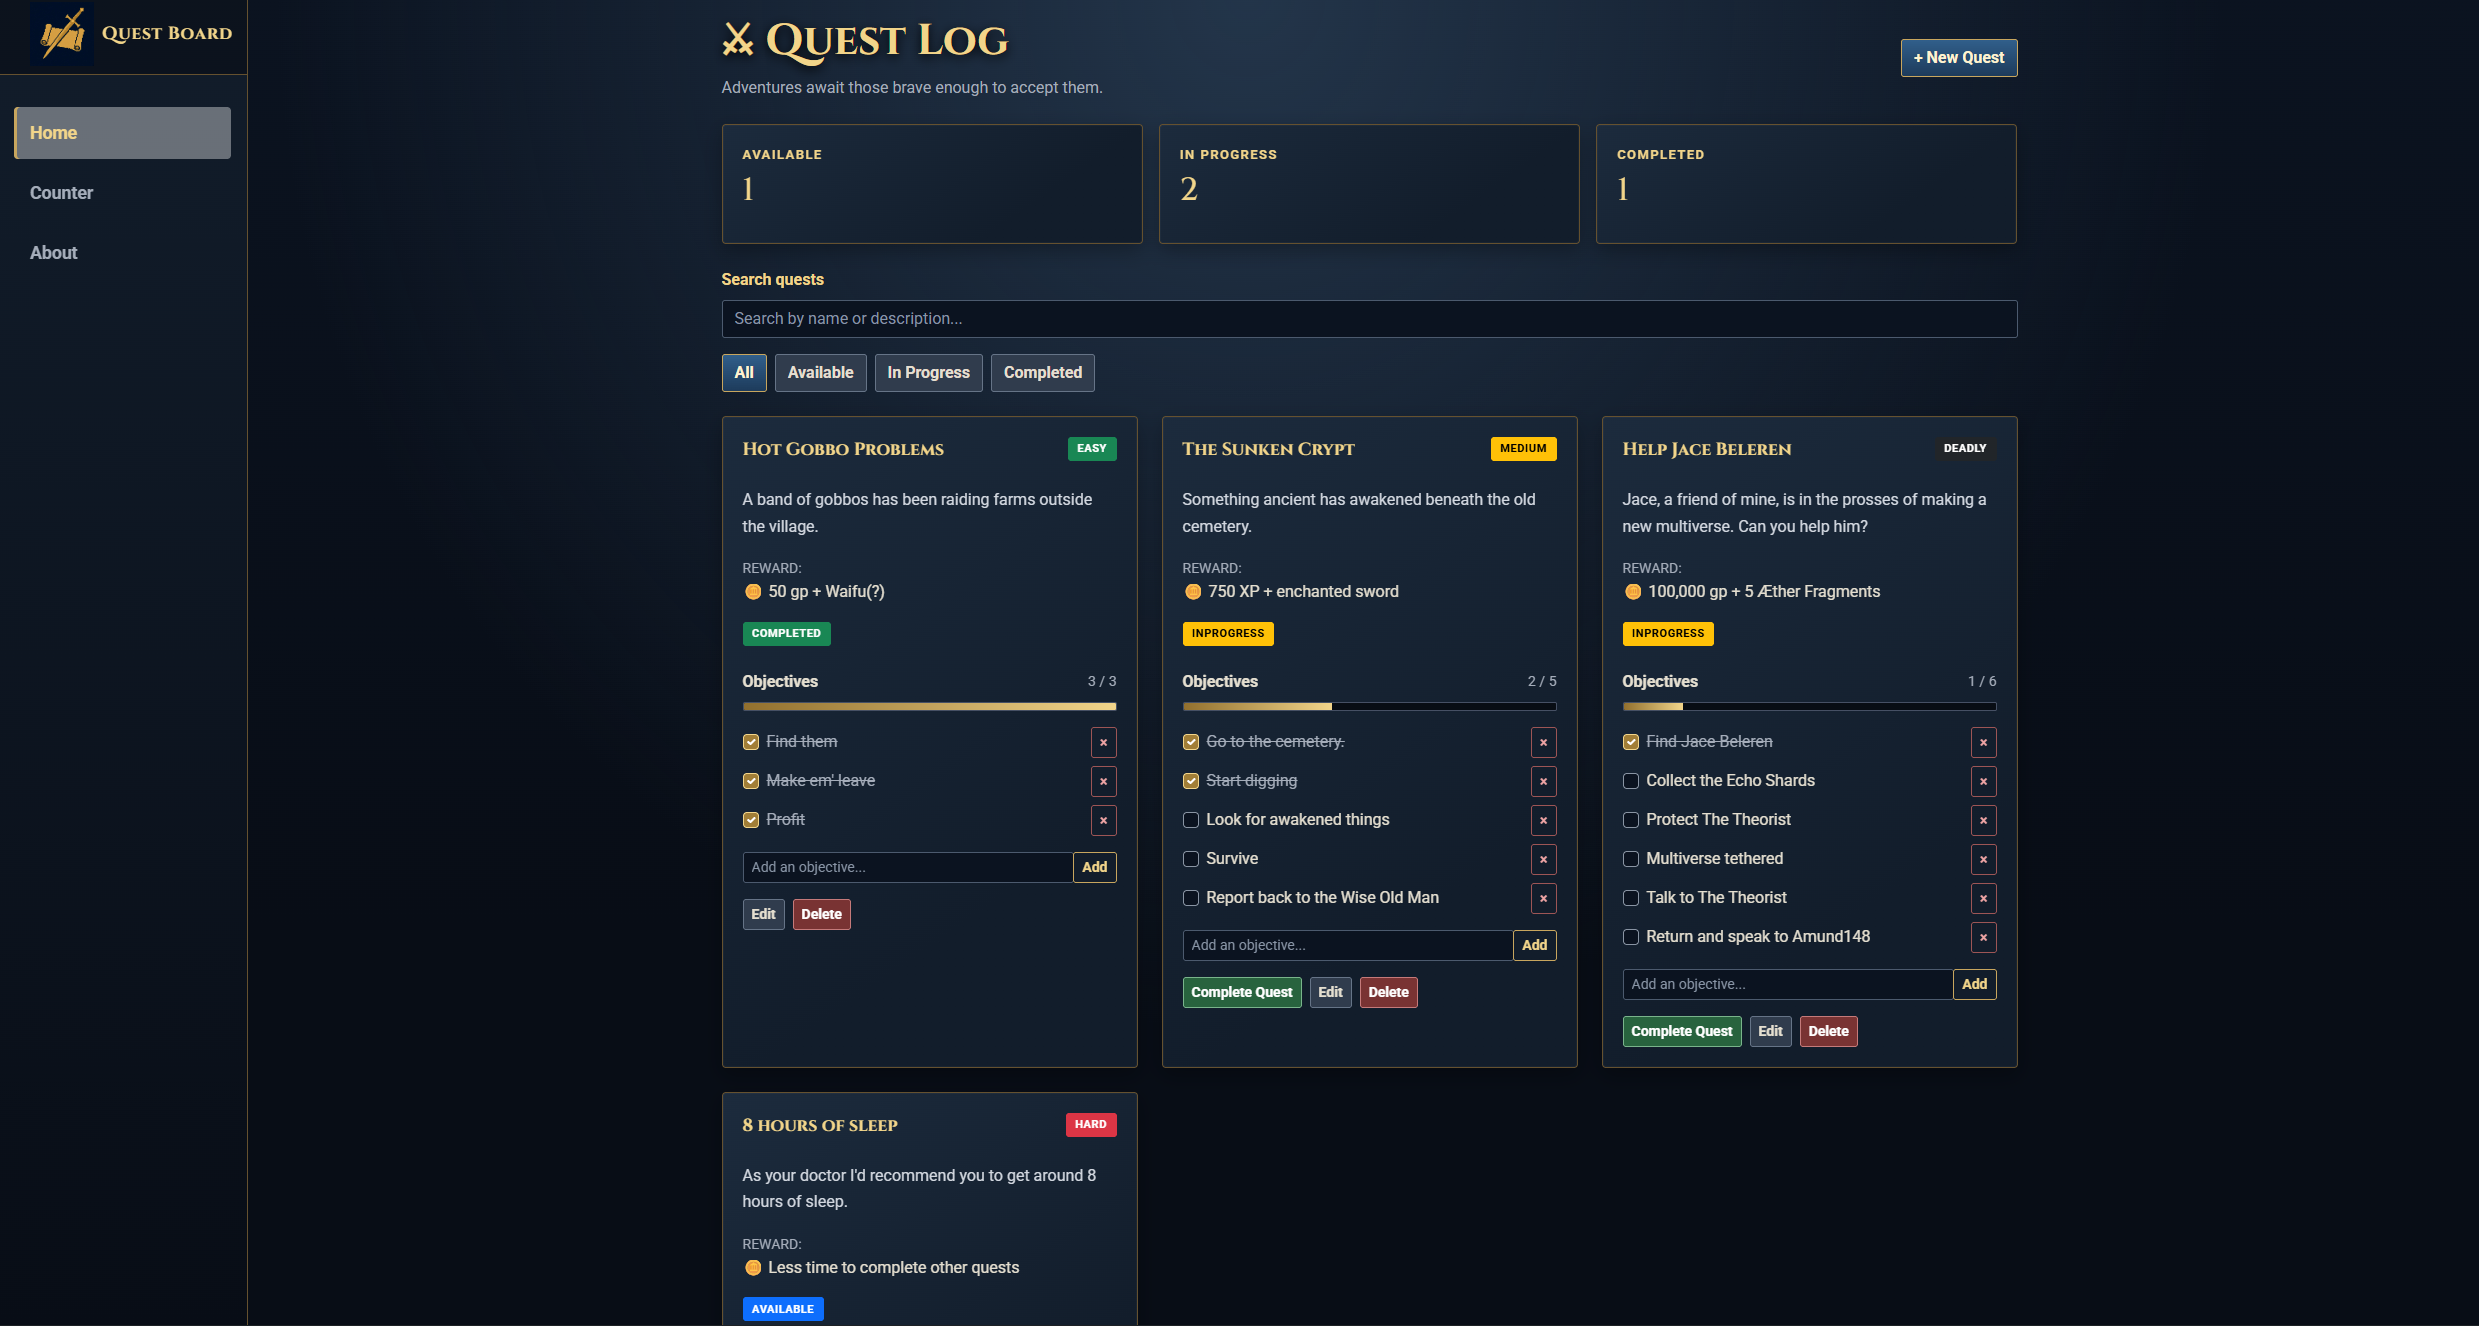
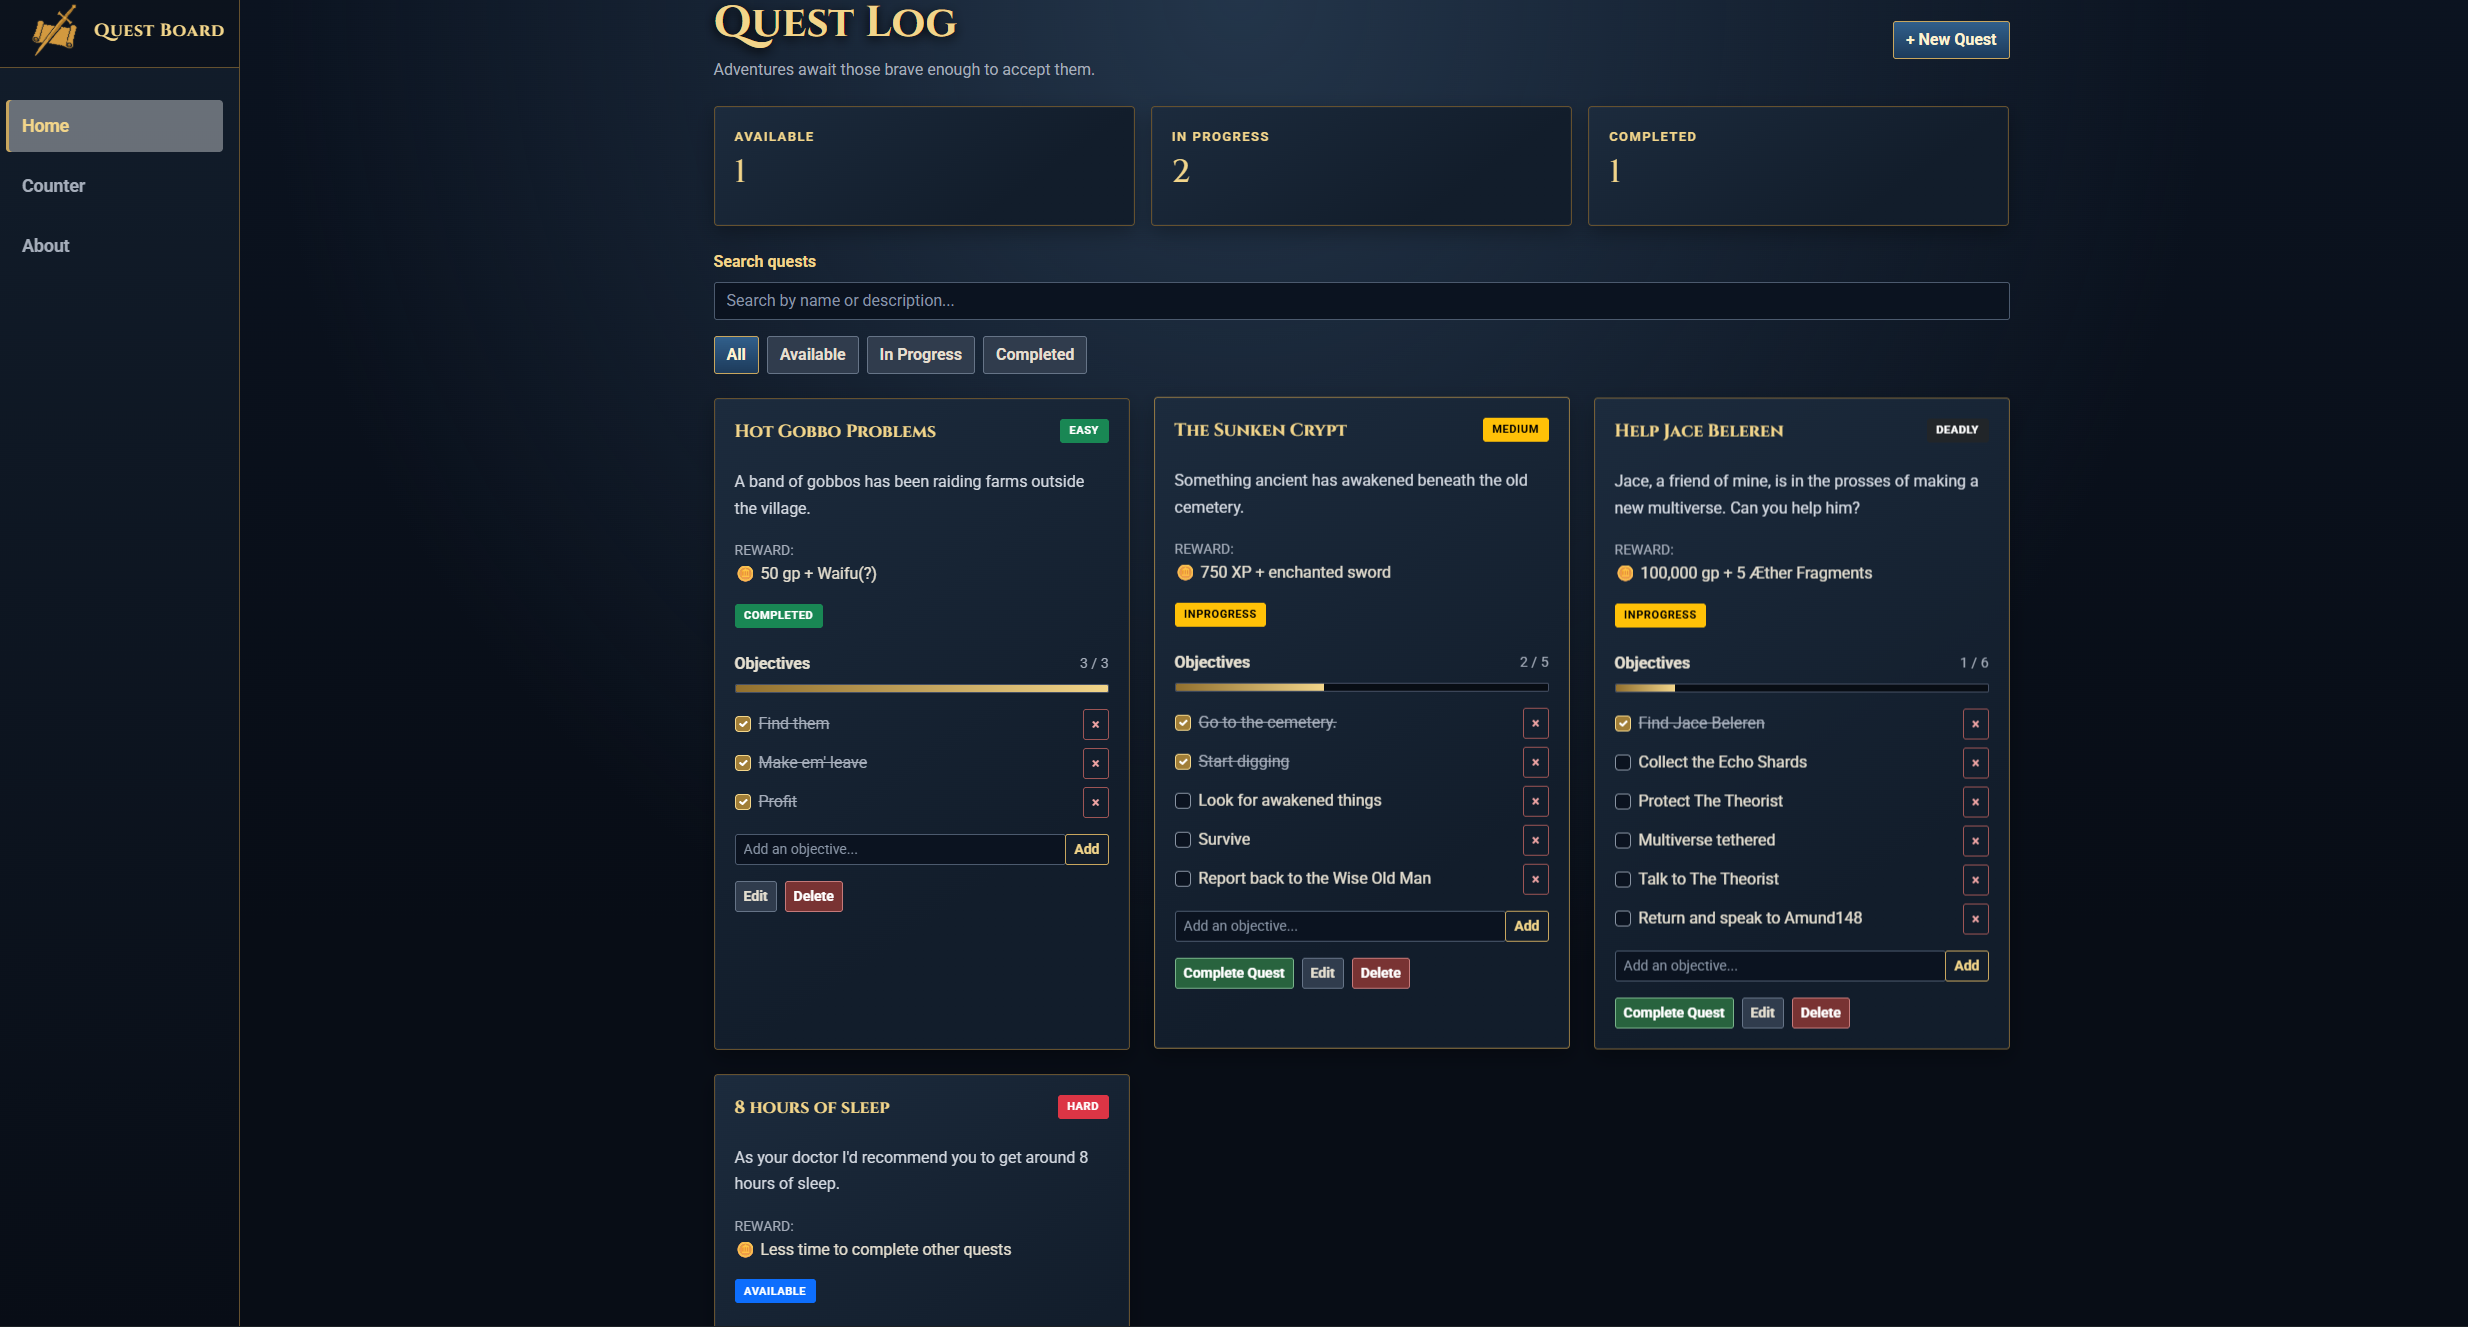
Small bugfixes

diff --git a/README.md b/README.md
@@ -1,5 +1,5 @@
 <p align="center">
-  <img src="./wwwroot/images/quest-board-logo.jpg" alt="Quest Board Logo" style="border-radius: 15px;" width="250">
+  <img src="./wwwroot/images/quest-board-logo.jpg" alt="Quest Board Logo" style="border-radius: 25px;" width="250">
 </p>
 
 <h1 align="center" style="color:#f2d58a">Quest Board</h1>
